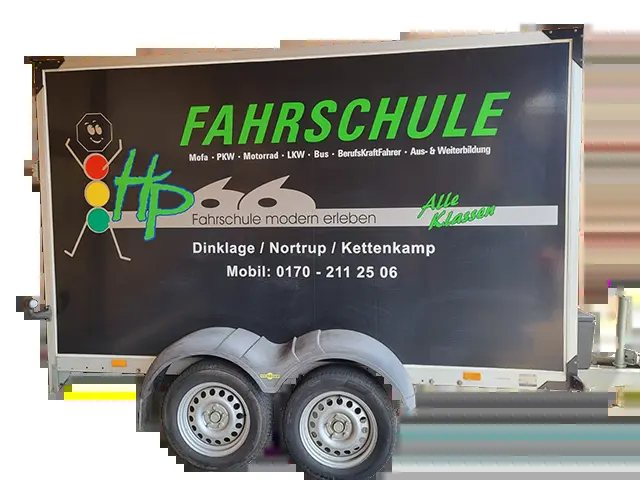
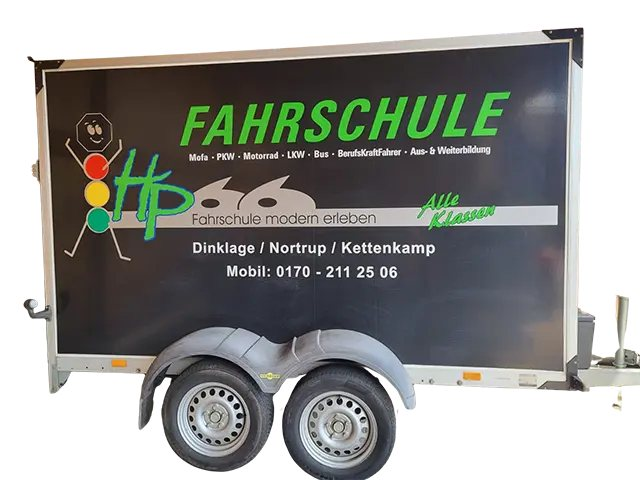
HP66 Bilder fix
Claude-Session: https://claude.ai/code/session_01BucTR9Q8kT7mhC8DGkv6nB

Changed region(s): [[0.0312, 0.0312, 1.0, 1.0], [0.0, 0.4688, 0.5, 1.0], [0.5625, 0.75, 0.5938, 0.7812]]

diff --git a/vorschau/fahrschule-hp66-nortrup-efd4/index.html b/vorschau/fahrschule-hp66-nortrup-efd4/index.html
@@ -1,17 +1,41 @@
 <!DOCTYPE html><html lang="de"><head><meta charset="utf-8"><meta name="viewport" content="width=device-width,initial-scale=1"><meta name="robots" content="noindex,nofollow"><title>Fahrschule HP 66 – Führerschein in Nortrup, Dinklage &amp; Gehrde</title><meta name="description" content="Fahrschule HP 66, Inh. Peter Hackmann: alle Klassen vom Mofa bis zum Bus, EU-Berufskraftfahrer. Standorte Nortrup, Dinklage und Gehrde."><style>@font-face {
-  font-family: 'Inter';
+  font-family: 'Montserrat';
   font-style: normal;
-  font-weight: 400 700;
+  font-weight: 400;
   font-display: swap;
-  src: url(../../assets/fonts/UcC73FwrK3iLTeHuS_nVMrMxCp50SjIa1ZL7.woff2) format('woff2');
+  src: url(../../assets/fonts/JTUSjIg1_i6t8kCHKm459Wlhyw.woff2) format('woff2');
   unicode-range: U+0000-00FF, U+0131, U+0152-0153, U+02BB-02BC, U+02C6, U+02DA, U+02DC, U+0304, U+0308, U+0329, U+2000-206F, U+20AC, U+2122, U+2191, U+2193, U+2212, U+2215, U+FEFF, U+FFFD;
 }
 @font-face {
-  font-family: 'Space Grotesk';
+  font-family: 'Montserrat';
   font-style: normal;
-  font-weight: 500 700;
+  font-weight: 500;
   font-display: swap;
-  src: url(../../assets/fonts/V8mDoQDjQSkFtoMM3T6r8E7mPbF4Cw.woff2) format('woff2');
+  src: url(../../assets/fonts/JTUSjIg1_i6t8kCHKm459Wlhyw.woff2) format('woff2');
+  unicode-range: U+0000-00FF, U+0131, U+0152-0153, U+02BB-02BC, U+02C6, U+02DA, U+02DC, U+0304, U+0308, U+0329, U+2000-206F, U+20AC, U+2122, U+2191, U+2193, U+2212, U+2215, U+FEFF, U+FFFD;
+}
+@font-face {
+  font-family: 'Montserrat';
+  font-style: normal;
+  font-weight: 600;
+  font-display: swap;
+  src: url(../../assets/fonts/JTUSjIg1_i6t8kCHKm459Wlhyw.woff2) format('woff2');
+  unicode-range: U+0000-00FF, U+0131, U+0152-0153, U+02BB-02BC, U+02C6, U+02DA, U+02DC, U+0304, U+0308, U+0329, U+2000-206F, U+20AC, U+2122, U+2191, U+2193, U+2212, U+2215, U+FEFF, U+FFFD;
+}
+@font-face {
+  font-family: 'Montserrat';
+  font-style: normal;
+  font-weight: 700;
+  font-display: swap;
+  src: url(../../assets/fonts/JTUSjIg1_i6t8kCHKm459Wlhyw.woff2) format('woff2');
+  unicode-range: U+0000-00FF, U+0131, U+0152-0153, U+02BB-02BC, U+02C6, U+02DA, U+02DC, U+0304, U+0308, U+0329, U+2000-206F, U+20AC, U+2122, U+2191, U+2193, U+2212, U+2215, U+FEFF, U+FFFD;
+}
+@font-face {
+  font-family: 'Montserrat';
+  font-style: normal;
+  font-weight: 800;
+  font-display: swap;
+  src: url(../../assets/fonts/JTUSjIg1_i6t8kCHKm459Wlhyw.woff2) format('woff2');
   unicode-range: U+0000-00FF, U+0131, U+0152-0153, U+02BB-02BC, U+02C6, U+02DA, U+02DC, U+0304, U+0308, U+0329, U+2000-206F, U+20AC, U+2122, U+2191, U+2193, U+2212, U+2215, U+FEFF, U+FFFD;
 }
 
@@ -565,11 +589,13 @@ body.has-tbar .hd{top:38px}body.has-tbar .hd.scr{top:0}
 @media (max-width:820px){.hlpa-ch{grid-template-columns:1fr}}
 .hlpa-f .chk.nl small{text-transform:none!important;letter-spacing:0!important;font:400 13px/1.45 system-ui,sans-serif!important;color:#55607a!important}
 
-:root{--bg:#f3f5f1;--ink:#121513;--mute:#555d58;--p:#8bd12a;--p-ink:#0d1406;--a:#8bd12a;--a-ink:#0d1406;--dk:#121513;--s:#fff;--s2:#e6ebe2;--fh:"Space Grotesk",system-ui,sans-serif;--fb:"Inter",system-ui,sans-serif;--r:16px;--r2:24px;--br:999px;--mq-bg:#121513;--mq-ink:#8bd12a;--hd-bg:rgba(18,21,19,.9);--hd-ink:#fff;--ft-bg:#0b0d0c;--hx-bg:#121513;--fl-bg:#fff}
+:root{--bg:#f4f5f2;--ink:#0e0e0e;--mute:#4f5450;--p:#b8ff25;--p-ink:#0e0e0e;--a:#b8ff25;--a-ink:#0e0e0e;--dk:#0e0e0e;--s:#fff;--s2:#e8ebe4;--fh:"Montserrat",system-ui,sans-serif;--fb:"Montserrat",system-ui,sans-serif;--r:16px;--r2:24px;--br:999px;--mq-bg:#121513;--mq-ink:#8bd12a;--hd-bg:rgba(14,14,14,.94);--hd-ink:#fff;--ft-bg:#0e0e0e;--hx-bg:#0e0e0e;--fl-bg:#fff}
 .hx{color:#fff}.hx .sub{color:rgba(255,255,255,.75)}.hx .btn-o{color:#fff}.hx h1{font-weight:700}.hx h1 em{color:var(--p)}.hx .pic{--hx-ar:16/11;--hx-r:28px}
 .hx::before{content:"";position:absolute;right:-10%;top:-20%;width:60%;height:140%;background:radial-gradient(closest-side,rgba(139,209,42,.22),transparent);z-index:1}
 .hx .chip{background:rgba(255,255,255,.1);border-color:rgba(255,255,255,.2);color:#fff}.h2{font-weight:700;letter-spacing:-.02em}.h2 em{font-style:normal;color:#5e9a10}.dk .h2 em{color:var(--p)}
-.hd .lt-logo{color:#fff}.fl .v figure{background:#fff}</style></head><body class=""><header class="hd lt" data-hd><div class="w"><a class="logo" href="#"><span class="lt-logo">HP<span style="color:var(--p)">66</span> <small style="font:600 13px var(--fb);opacity:.75">Fahrschule</small></span></a><nav class="nav"><a href="#fragen">Fragen</a><a href="#fahrzeuge">Fahrzeuge</a><a href="#orte">Standorte</a><a href="#ablauf">Ablauf</a><a href="#kontakt">Kontakt</a></nav><a class="btn btn-a" href="#kontakt">Jetzt anmelden</a><button class="burger" data-nav aria-label="Menü">☰</button></div></header><section class="hx" id="top"><div class="w"><div data-r><div class="chip"><b>5,0</b><span class="st">★★★★★</span>10 Google-Bewertungen</div><p class="ey">Fahrschule HP 66 · Nortrup · Dinklage · Gehrde</p><h1>Sicher in die Prüfung. <em>Ohne Umwege.</em></h1><p class="sub">Peter Hackmann und Claudia Hackmann-Paschert begleiten dich von der Anmeldung bis zur praktischen Prüfung. Zu fairen Preisen, mit entspannten Fahrlehrern und modernen BMW.</p><div class="ctas"><a class="btn btn-a" href="#kontakt">Jetzt anmelden <svg viewBox="0 0 24 24" fill="none" stroke="currentColor" stroke-width="2.2"><path d="M5 12h14M13 6l6 6-6 6"/></svg></a><a class="btn btn-o" href="tel:+491702112506"><svg viewBox="0 0 24 24" fill="currentColor"><path d="M6.6 10.8a15.1 15.1 0 006.6 6.6l2.2-2.2a1 1 0 011-.25 11.4 11.4 0 003.6.6 1 1 0 011 1V20a1 1 0 01-1 1A17 17 0 013 4a1 1 0 011-1h3.5a1 1 0 011 1c0 1.25.2 2.45.57 3.57a1 1 0 01-.25 1z"/></svg> 0170 2112506</a></div><div class="quick"><span>Was willst du fahren?</span><button type="button" data-check="auto"><svg viewBox="0 0 24 24" fill="none" stroke="currentColor" stroke-width="1.8"><path d="M3 15l1.6-5.2A2 2 0 016.5 8.4h11a2 2 0 011.9 1.4L21 15v3a1 1 0 01-1 1h-1.5a1 1 0 01-1-1v-1H6.5v1a1 1 0 01-1 1H4a1 1 0 01-1-1z"/><circle cx="7.5" cy="14.2" r="1.2"/><circle cx="16.5" cy="14.2" r="1.2"/></svg>Auto</button><button type="button" data-check="moto"><svg viewBox="0 0 24 24" fill="none" stroke="currentColor" stroke-width="1.8"><circle cx="5.5" cy="16.5" r="3"/><circle cx="18.5" cy="16.5" r="3"/><path d="M5.5 16.5l4-6h5l4 6M9.5 10.5L8 7.5h3M14.5 10.5l1.5-3h2.5"/></svg>Motorrad</button><button type="button" data-check="roller"><svg viewBox="0 0 24 24" fill="none" stroke="currentColor" stroke-width="1.8"><circle cx="6" cy="17" r="2.5"/><circle cx="18" cy="17" r="2.5"/><path d="M8.5 17h7M15 6h2l1.5 8.5M6 17l3-6h5"/></svg>Roller</button><button type="button" data-check="lkw"><svg viewBox="0 0 24 24" fill="none" stroke="currentColor" stroke-width="1.8"><path d="M2 6h12v10H2zM14 10h4l3 3v3h-7z"/><circle cx="6" cy="17.5" r="1.8"/><circle cx="17" cy="17.5" r="1.8"/></svg>Lkw / Bus</button><button type="button" data-check="trak"><svg viewBox="0 0 24 24" fill="none" stroke="currentColor" stroke-width="1.8"><circle cx="7" cy="16" r="4"/><circle cx="18" cy="17" r="2.5"/><path d="M7 12V6h6l2 6h3l2 3M11 6v6"/></svg>Traktor</button></div></div><div class="pic" data-r="2"><img src="img/h-car.jpg" alt="Fahrschule HP 66" style="object-position:50% 50%"><div class="gl g1"><b>5,0 ★</b>bei Google</div><div class="gl g2"><b>Alle Klassen</b>vom Mofa bis zum Bus</div></div></div></section><div class="mq hpm"><div class="t"><span>Klasse B &amp; BF17</span><span>BE · B96</span><span>A · A2 · A1 · AM</span><span>C · CE · C1</span><span>D · D1</span><span>Traktor T</span><span>EU-Berufskraftfahrer</span><span>Klasse B &amp; BF17</span><span>BE · B96</span><span>A · A2 · A1 · AM</span><span>C · CE · C1</span><span>D · D1</span><span>Traktor T</span><span>EU-Berufskraftfahrer</span></div></div><section class="sec so dk" id="fragen"><div class="w"><div data-r><div><p class="ey">Häufige Fragen</p><h2 class="h2">Das wollen <em>alle wissen.</em></h2></div></div><div class="grid"><div class="it" data-r><q>Wie lange dauert mein Führerschein?</q><p>Das hängt davon ab, wie oft du zur Theorie kommst und Zeit zum Fahren hast. Als Richtwert: <b>etwa 3 bis 6 Monate.</b></p></div><div class="it" data-r><q>Was passiert nach der Online-Anmeldung?</q><p>Wir melden uns bei dir und besprechen <b>persönlich</b>, wie deine Ausbildung bei uns läuft.</p></div><div class="it" data-r><q>Welche Autos habt ihr?</q><p>Vor allem die <b>BMW X1</b> und den <b>3er</b>, mit Schaltung und mit Automatik.</p></div><div class="it" data-r><q>Was brauche ich für den Antrag?</q><p>Antrag (bekommst du von uns), <b>biometrisches Passbild, Sehtest und Erste-Hilfe-Nachweis</b>. Bei Erweiterungen eine Kopie deines Führerscheins.</p></div></div></div></section><section class="sec fl " id="fahrzeuge"><div class="w top" data-r><div><p class="ey">Unsere Fahrzeuge</p><h2 class="h2">Moderne Marken, <em>sauber vorbereitet.</em></h2><p class=lead>Nicht nur die Fahrlehrer sind wichtig, auch die Fahrzeuge. Darum setzen wir auf moderne Markenhersteller.</p></div></div><div class="trk"><article class="v cut"><figure><img src="img/f-x1.jpg" alt="BMW X1" loading="lazy" style="object-position:50% 50%"></figure><div><h3>BMW X1</h3><span>Klasse B</span></div></article><article class="v cut"><figure><img src="img/f-3er.jpg" alt="BMW 3er Touring" loading="lazy" style="object-position:50% 50%"></figure><div><h3>BMW 3er Touring</h3><span>Klasse B · Schaltung &amp; Automatik</span></div></article><article class="v cut"><figure><img src="img/f-z.jpg" alt="Kawasaki" loading="lazy" style="object-position:50% 50%"></figure><div><h3>Kawasaki</h3><span>Klasse A / A2</span></div></article><article class="v cut"><figure><img src="img/f-z2.jpg" alt="Kawasaki" loading="lazy" style="object-position:50% 50%"></figure><div><h3>Kawasaki</h3><span>Klasse A1</span></div></article><article class="v cut"><figure><img src="img/f-roller.jpg" alt="Roller" loading="lazy" style="object-position:50% 50%"></figure><div><h3>Roller</h3><span>Klasse AM</span></div></article><article class="v cut"><figure><img src="img/f-anh.jpg" alt="Anhänger" loading="lazy" style="object-position:50% 50%"></figure><div><h3>Anhänger</h3><span>Klasse BE · B96</span></div></article></div></section><section class="sec or alt" id="orte"><div class="w"><div data-r><div><p class="ey">Standorte</p><h2 class="h2">Drei Orte, <em>drei Abende.</em></h2><p class=lead>Anmeldung und Unterricht jeweils ab 18:30 Uhr.</p></div></div><div class="grid"><div class="o" data-r><b>Nortrup</b><span>Kirchstraße 1</span><i>Donnerstags</i></div><div class="o" data-r><b>Dinklage</b><span>Burgstraße 7</span><i>Montags</i></div><div class="o" data-r><b>Gehrde</b><span>Lindenstraße 22</span><i>Dienstags</i></div></div></div></section><section class="sec rd " id="ablauf"><div class="w"><div data-r><div><p class="ey">Auf geht’s</p><h2 class="h2">Dein Weg <em>zum Führerschein.</em></h2></div></div><div class="road"><div data-r data-n="1"><h3>Online anmelden</h3><p>Klassen auswählen, abschicken. Bei Minderjährigen brauchen wir die Unterschrift der Eltern.</p></div><div data-r data-n="2"><h3>Persönlich starten</h3><p>Beim ersten Besuch bekommst du deinen Ausbildungsvertrag mit allen Infos.</p></div><div data-r data-n="3"><h3>Theorie &amp; Online lernen</h3><p>Unterricht in Nortrup, Dinklage oder Gehrde, dazu online lernen.</p></div><div data-r data-n="4"><h3>Fahren &amp; bestehen</h3><p>Fahrstunden im BMW, dann sicher in die Prüfung.</p></div></div></div></section><section class="sec rv dk" id="stimmen" style="overflow:hidden"><div class="w"><div class="sum" data-r><b>5,0</b><div><div class="st">★★★★★</div><span>10 Bewertungen bei Google</span></div></div><h2 class="h2" style="margin-top:20px">Was Fahrschüler <em>über uns sagen.</em></h2></div><div class="trk"><div class="cd"><div class="st">★★★★★</div><p>„Tolle Fahrschule, alles wurde perfekt erklärt, um die Prüfung zu bestehen. Es hat immer richtig Spaß gemacht. Danke euch beiden!“</p><small>Google-Rezension, sinngemäß</small></div><div class="cd"><div class="st">★★★★★</div><p>„Sehr freundlich, alles wird gut erklärt und es gibt hilfreiche Tipps. Ich kann den Führerschein hier nur empfehlen.“</p><small>Google-Rezension, sinngemäß</small></div><div class="cd"><div class="st">★★★★★</div><p>„Super Fahrschule, super Fahrlehrer. Hier bestehst du deine Prüfung.“</p><small>Google-Rezension, sinngemäß</small></div><div class="cd"><div class="st">★★★★★</div><p>„Klasse Fahrstunden. Die Nachtfahrt inklusive Stopp an der Dönerbude war ein Highlight!“</p><small>Google-Rezension, sinngemäß</small></div><div class="cd"><div class="st">★★★★★</div><p>„Tolle Fahrschule, alles wurde perfekt erklärt, um die Prüfung zu bestehen. Es hat immer richtig Spaß gemacht. Danke euch beiden!“</p><small>Google-Rezension, sinngemäß</small></div><div class="cd"><div class="st">★★★★★</div><p>„Sehr freundlich, alles wird gut erklärt und es gibt hilfreiche Tipps. Ich kann den Führerschein hier nur empfehlen.“</p><small>Google-Rezension, sinngemäß</small></div><div class="cd"><div class="st">★★★★★</div><p>„Super Fahrschule, super Fahrlehrer. Hier bestehst du deine Prüfung.“</p><small>Google-Rezension, sinngemäß</small></div><div class="cd"><div class="st">★★★★★</div><p>„Klasse Fahrstunden. Die Nachtfahrt inklusive Stopp an der Dönerbude war ein Highlight!“</p><small>Google-Rezension, sinngemäß</small></div></div><div class="w"><p class="note">Auszüge aus echten Google-Rezensionen, gekürzt und sinngemäß wiedergegeben.</p></div></section><section class="sec kt " id="kontakt"><div class="w"><div data-r><p class="ey">Kontakt</p><h2 class="h2">Dein schneller <em>Draht zu uns.</em></h2><p class="lead">Anrufen, WhatsApp oder Formular, wie es dir am liebsten ist.</p>
+.hd .lt-logo{color:#fff}.fl .v figure{background:#fff}
+.hx .pic{background:transparent!important;box-shadow:none!important;border-radius:0!important;overflow:visible}.hx .pic img{object-fit:contain;border-radius:0}
+section:not(.hx):not(.dk) .ey{color:#3f6b00}</style></head><body class=""><header class="hd lt" data-hd><div class="w"><a class="logo" href="#"><span class="lt-logo"><img src="img/logo.svg" alt="Fahrschule HP 66" style="height:46px;width:auto;display:block"></span></a><nav class="nav"><a href="#fragen">Fragen</a><a href="#fahrzeuge">Fahrzeuge</a><a href="#orte">Standorte</a><a href="#ablauf">Ablauf</a><a href="#kontakt">Kontakt</a></nav><a class="btn btn-a" href="#kontakt">Jetzt anmelden</a><button class="burger" data-nav aria-label="Menü">☰</button></div></header><section class="hx" id="top"><div class="w"><div data-r><div class="chip"><b>5,0</b><span class="st">★★★★★</span>10 Google-Bewertungen</div><p class="ey">Fahrschule HP 66 · Nortrup · Dinklage · Gehrde</p><h1>Sicher in die Prüfung. <em>Ohne Umwege.</em></h1><p class="sub">Peter Hackmann und Claudia Hackmann-Paschert begleiten dich von der Anmeldung bis zur praktischen Prüfung. Zu fairen Preisen, mit entspannten Fahrlehrern und modernen BMW.</p><div class="ctas"><a class="btn btn-a" href="#kontakt">Jetzt anmelden <svg viewBox="0 0 24 24" fill="none" stroke="currentColor" stroke-width="2.2"><path d="M5 12h14M13 6l6 6-6 6"/></svg></a><a class="btn btn-o" href="tel:+491702112506"><svg viewBox="0 0 24 24" fill="currentColor"><path d="M6.6 10.8a15.1 15.1 0 006.6 6.6l2.2-2.2a1 1 0 011-.25 11.4 11.4 0 003.6.6 1 1 0 011 1V20a1 1 0 01-1 1A17 17 0 013 4a1 1 0 011-1h3.5a1 1 0 011 1c0 1.25.2 2.45.57 3.57a1 1 0 01-.25 1z"/></svg> 0170 2112506</a></div><div class="quick"><span>Was willst du fahren?</span><button type="button" data-check="auto"><svg viewBox="0 0 24 24" fill="none" stroke="currentColor" stroke-width="1.8"><path d="M3 15l1.6-5.2A2 2 0 016.5 8.4h11a2 2 0 011.9 1.4L21 15v3a1 1 0 01-1 1h-1.5a1 1 0 01-1-1v-1H6.5v1a1 1 0 01-1 1H4a1 1 0 01-1-1z"/><circle cx="7.5" cy="14.2" r="1.2"/><circle cx="16.5" cy="14.2" r="1.2"/></svg>Auto</button><button type="button" data-check="moto"><svg viewBox="0 0 24 24" fill="none" stroke="currentColor" stroke-width="1.8"><circle cx="5.5" cy="16.5" r="3"/><circle cx="18.5" cy="16.5" r="3"/><path d="M5.5 16.5l4-6h5l4 6M9.5 10.5L8 7.5h3M14.5 10.5l1.5-3h2.5"/></svg>Motorrad</button><button type="button" data-check="roller"><svg viewBox="0 0 24 24" fill="none" stroke="currentColor" stroke-width="1.8"><circle cx="6" cy="17" r="2.5"/><circle cx="18" cy="17" r="2.5"/><path d="M8.5 17h7M15 6h2l1.5 8.5M6 17l3-6h5"/></svg>Roller</button><button type="button" data-check="lkw"><svg viewBox="0 0 24 24" fill="none" stroke="currentColor" stroke-width="1.8"><path d="M2 6h12v10H2zM14 10h4l3 3v3h-7z"/><circle cx="6" cy="17.5" r="1.8"/><circle cx="17" cy="17.5" r="1.8"/></svg>Lkw / Bus</button><button type="button" data-check="trak"><svg viewBox="0 0 24 24" fill="none" stroke="currentColor" stroke-width="1.8"><circle cx="7" cy="16" r="4"/><circle cx="18" cy="17" r="2.5"/><path d="M7 12V6h6l2 6h3l2 3M11 6v6"/></svg>Traktor</button></div></div><div class="pic" data-r="2"><img src="img/h-car.jpg" alt="Fahrschule HP 66" style="object-position:50% 50%"><div class="gl g1"><b>5,0 ★</b>bei Google</div><div class="gl g2"><b>Alle Klassen</b>vom Mofa bis zum Bus</div></div></div></section><div class="mq hpm"><div class="t"><span>Klasse B &amp; BF17</span><span>BE · B96</span><span>A · A2 · A1 · AM</span><span>C · CE · C1</span><span>D · D1</span><span>Traktor T</span><span>EU-Berufskraftfahrer</span><span>Klasse B &amp; BF17</span><span>BE · B96</span><span>A · A2 · A1 · AM</span><span>C · CE · C1</span><span>D · D1</span><span>Traktor T</span><span>EU-Berufskraftfahrer</span></div></div><section class="sec so dk" id="fragen"><div class="w"><div data-r><div><p class="ey">Häufige Fragen</p><h2 class="h2">Das wollen <em>alle wissen.</em></h2></div></div><div class="grid"><div class="it" data-r><q>Wie lange dauert mein Führerschein?</q><p>Das hängt davon ab, wie oft du zur Theorie kommst und Zeit zum Fahren hast. Als Richtwert: <b>etwa 3 bis 6 Monate.</b></p></div><div class="it" data-r><q>Was passiert nach der Online-Anmeldung?</q><p>Wir melden uns bei dir und besprechen <b>persönlich</b>, wie deine Ausbildung bei uns läuft.</p></div><div class="it" data-r><q>Welche Autos habt ihr?</q><p>Vor allem die <b>BMW X1</b> und den <b>3er</b>, mit Schaltung und mit Automatik.</p></div><div class="it" data-r><q>Was brauche ich für den Antrag?</q><p>Antrag (bekommst du von uns), <b>biometrisches Passbild, Sehtest und Erste-Hilfe-Nachweis</b>. Bei Erweiterungen eine Kopie deines Führerscheins.</p></div></div></div></section><section class="sec fl " id="fahrzeuge"><div class="w top" data-r><div><p class="ey">Unsere Fahrzeuge</p><h2 class="h2">Moderne Marken, <em>sauber vorbereitet.</em></h2><p class=lead>Nicht nur die Fahrlehrer sind wichtig, auch die Fahrzeuge. Darum setzen wir auf moderne Markenhersteller.</p></div></div><div class="trk"><article class="v cut"><figure><img src="img/f-x1.jpg" alt="BMW X1" loading="lazy" style="object-position:50% 50%"></figure><div><h3>BMW X1</h3><span>Klasse B</span></div></article><article class="v cut"><figure><img src="img/f-3er.jpg" alt="BMW 3er Touring" loading="lazy" style="object-position:50% 50%"></figure><div><h3>BMW 3er Touring</h3><span>Klasse B · Schaltung &amp; Automatik</span></div></article><article class="v cut"><figure><img src="img/f-z.jpg" alt="Kawasaki" loading="lazy" style="object-position:50% 50%"></figure><div><h3>Kawasaki</h3><span>Klasse A / A2</span></div></article><article class="v cut"><figure><img src="img/f-z2.jpg" alt="Kawasaki" loading="lazy" style="object-position:50% 50%"></figure><div><h3>Kawasaki</h3><span>Klasse A1</span></div></article><article class="v cut"><figure><img src="img/f-roller.jpg" alt="Roller" loading="lazy" style="object-position:50% 50%"></figure><div><h3>Roller</h3><span>Klasse AM</span></div></article><article class="v cut"><figure><img src="img/f-anh.jpg" alt="Anhänger" loading="lazy" style="object-position:50% 50%"></figure><div><h3>Anhänger</h3><span>Klasse BE · B96</span></div></article></div></section><section class="sec or alt" id="orte"><div class="w"><div data-r><div><p class="ey">Standorte</p><h2 class="h2">Drei Orte, <em>drei Abende.</em></h2><p class=lead>Anmeldung und Unterricht jeweils ab 18:30 Uhr.</p></div></div><div class="grid"><div class="o" data-r><b>Nortrup</b><span>Kirchstraße 1</span><i>Donnerstags</i></div><div class="o" data-r><b>Dinklage</b><span>Burgstraße 7</span><i>Montags</i></div><div class="o" data-r><b>Gehrde</b><span>Lindenstraße 22</span><i>Dienstags</i></div></div></div></section><section class="sec rd " id="ablauf"><div class="w"><div data-r><div><p class="ey">Auf geht’s</p><h2 class="h2">Dein Weg <em>zum Führerschein.</em></h2></div></div><div class="road"><div data-r data-n="1"><h3>Online anmelden</h3><p>Klassen auswählen, abschicken. Bei Minderjährigen brauchen wir die Unterschrift der Eltern.</p></div><div data-r data-n="2"><h3>Persönlich starten</h3><p>Beim ersten Besuch bekommst du deinen Ausbildungsvertrag mit allen Infos.</p></div><div data-r data-n="3"><h3>Theorie &amp; Online lernen</h3><p>Unterricht in Nortrup, Dinklage oder Gehrde, dazu online lernen.</p></div><div data-r data-n="4"><h3>Fahren &amp; bestehen</h3><p>Fahrstunden im BMW, dann sicher in die Prüfung.</p></div></div></div></section><section class="sec rv dk" id="stimmen" style="overflow:hidden"><div class="w"><div class="sum" data-r><b>5,0</b><div><div class="st">★★★★★</div><span>10 Bewertungen bei Google</span></div></div><h2 class="h2" style="margin-top:20px">Was Fahrschüler <em>über uns sagen.</em></h2></div><div class="trk"><div class="cd"><div class="st">★★★★★</div><p>„Tolle Fahrschule, alles wurde perfekt erklärt, um die Prüfung zu bestehen. Es hat immer richtig Spaß gemacht. Danke euch beiden!“</p><small>Google-Rezension, sinngemäß</small></div><div class="cd"><div class="st">★★★★★</div><p>„Sehr freundlich, alles wird gut erklärt und es gibt hilfreiche Tipps. Ich kann den Führerschein hier nur empfehlen.“</p><small>Google-Rezension, sinngemäß</small></div><div class="cd"><div class="st">★★★★★</div><p>„Super Fahrschule, super Fahrlehrer. Hier bestehst du deine Prüfung.“</p><small>Google-Rezension, sinngemäß</small></div><div class="cd"><div class="st">★★★★★</div><p>„Klasse Fahrstunden. Die Nachtfahrt inklusive Stopp an der Dönerbude war ein Highlight!“</p><small>Google-Rezension, sinngemäß</small></div><div class="cd"><div class="st">★★★★★</div><p>„Tolle Fahrschule, alles wurde perfekt erklärt, um die Prüfung zu bestehen. Es hat immer richtig Spaß gemacht. Danke euch beiden!“</p><small>Google-Rezension, sinngemäß</small></div><div class="cd"><div class="st">★★★★★</div><p>„Sehr freundlich, alles wird gut erklärt und es gibt hilfreiche Tipps. Ich kann den Führerschein hier nur empfehlen.“</p><small>Google-Rezension, sinngemäß</small></div><div class="cd"><div class="st">★★★★★</div><p>„Super Fahrschule, super Fahrlehrer. Hier bestehst du deine Prüfung.“</p><small>Google-Rezension, sinngemäß</small></div><div class="cd"><div class="st">★★★★★</div><p>„Klasse Fahrstunden. Die Nachtfahrt inklusive Stopp an der Dönerbude war ein Highlight!“</p><small>Google-Rezension, sinngemäß</small></div></div><div class="w"><p class="note">Auszüge aus echten Google-Rezensionen, gekürzt und sinngemäß wiedergegeben.</p></div></section><section class="sec kt " id="kontakt"><div class="w"><div data-r><p class="ey">Kontakt</p><h2 class="h2">Dein schneller <em>Draht zu uns.</em></h2><p class="lead">Anrufen, WhatsApp oder Formular, wie es dir am liebsten ist.</p>
 <div class="info"><div><i>☎</i><div><b><a href="tel:+491702112506">0170 2112506</a></b>fahrschule-hp-66@t-online.de</div></div><div><i>⌖</i><div><b>Fahrschule HP 66</b>Kirchstraße 1, 49638 Nortrup</div></div><div><i>◷</i><div><b>Öffnungszeiten</b><div class="hrs"><span>Mo · Dinklage</span><span>ab 18:30</span><span>Di · Gehrde</span><span>ab 18:30</span><span>Do · Nortrup</span><span>ab 18:30</span></div></div></div></div>
 <div class="map"><img src="img/karte.webp" alt="Karte: Kirchstraße 1, 49638 Nortrup" loading="lazy"><a href="https://www.openstreetmap.org/search?query=Kirchstraße 1, 49638 Nortrup" target="_blank" rel="noopener">Route planen →</a></div></div>
 <div class="bx" data-r="2"><h3 style="font-size:28px">Auf die Plätze, fertig, los</h3><p style="color:var(--mute);margin:8px 0 22px">Melde dich an, wir rufen dich an und besprechen den Start.</p><form class="fm"><div class="two"><label>Name<input required autocomplete="name" placeholder="Dein Name"></label><label>Telefon<input required type="tel" autocomplete="tel" placeholder="Deine Telefonnummer"></label></div><label>Führerschein<select><option>Auto · B / BF17</option><option>Anhänger · BE / B96</option><option>Motorrad · A / A2 / A1</option><option>Roller · AM / Mofa</option><option>Lkw · C / CE / C1</option><option>Bus · D / D1</option><option>Traktor · T</option><option>EU-Berufskraftfahrer</option></select></label><label>Standort<select><option>Nortrup</option><option>Dinklage</option><option>Gehrde</option></select></label><label>Nachricht<textarea placeholder="Deine Nachricht (optional)"></textarea></label><button class="btn btn-a">Anmeldung abschicken <svg viewBox="0 0 24 24" fill="none" stroke="currentColor" stroke-width="2.2"><path d="M5 12h14M13 6l6 6-6 6"/></svg></button><small>Grober Entwurf: Das Formular verschickt noch nichts.</small><div class="ok">Danke! Wir melden uns schnellstmöglich bei dir.</div></form></div></div></section><section class="hlpa" id="hlp-anfrage"><div class="hlpa-w"><div class="hlpa-t"><small>Nachricht von High Level Performance</small><h2>Gefällt Ihnen Ihr neuer Auftritt?</h2><p>Tragen Sie hier kurz Ihre Daten ein. Sie müssen sich um nichts weiter kümmern: Wir melden uns innerhalb von 24 Stunden telefonisch bei Ihnen, zu der Uhrzeit, die Ihnen passt.</p><p class="hlpa-s">Kostenlos und unverbindlich. Im Gespräch zeigen wir Ihnen, wie aus diesem Entwurf Ihre fertige Website wird.</p></div>
@@ -581,7 +607,7 @@ body.has-tbar .hd{top:38px}body.has-tbar .hd.scr{top:0}
 <label class="w2">Ihre größte Herausforderung (freiwillig)<textarea name="wunsch" rows="2" placeholder="Ein, zwei Sätze reichen, z. B. viele Besucher, aber kaum Anmeldungen"></textarea></label>
 <label class="chk nl w2"><input type="checkbox" name="newsletter" value="ja"><span><b>Newsletter abonnieren und 15 % auf Ihre nächste Leistung sparen</b><small>Bleiben Sie auf dem Laufenden: Wir schauen uns an, was im Markt gerade funktioniert, und schicken Ihnen regelmäßig die wichtigsten Neuigkeiten rund um Websites, Google und mehr Anfragen. Abmeldung jederzeit mit einem Klick.</small></span></label>
 <label class="chk w2"><input type="checkbox" name="ds" required><span>Ich bin einverstanden, dass meine Angaben zur Bearbeitung meiner Anfrage gespeichert werden (<a href="https://www.highlevel-performance.de/datenschutz/" target="_blank" rel="noopener">Datenschutz</a>).</span></label>
-<button class="w2" type="submit">Kostenlosen Rückruf anfordern</button><p class="msg w2" hidden></p></form></div></section><footer class="ft"><div class="w"><div><span class="lt-logo">HP<span style="color:var(--p)">66</span> <small style="font:600 13px var(--fb);opacity:.75">Fahrschule</small></span><p>Fahrschule HP 66<br>Kirchstraße 1, 49638 Nortrup<br><a href="tel:+491702112506">0170 2112506</a></p></div><div><b>Seite</b><a href="#fragen">Fragen</a><a href="#fahrzeuge">Fahrzeuge</a><a href="#orte">Standorte</a><a href="#ablauf">Ablauf</a><a href="#kontakt">Kontakt</a></div><div><b>Folgen</b><a href="https://www.instagram.com/fahrschulehp66/" target="_blank" rel="noopener">Instagram</a><a href="https://www.facebook.com/FahrschuleHP66/" target="_blank" rel="noopener">Facebook</a><a href="https://wa.me/491702112506" target="_blank" rel="noopener">WhatsApp</a></div><div class="cp">Grober Entwurf von High Level Performance mit Bildern und Texten von fahrschule-hp-66.de. Bei einer Zusammenarbeit wird alles viel intensiver ausgearbeitet.</div></div></footer><div class="hlp-note"><b>Grober Entwurf</b> · Erstellt von High Level Performance. Bei einer Zusammenarbeit arbeiten wir jede Seite viel intensiver aus. <a href="#hlp-anfrage">Entwurf gefällt mir →</a><button aria-label="Hinweis schließen">×</button></div><div class="mcall"><a href="tel:+491702112506"><svg viewBox="0 0 24 24" fill="currentColor"><path d="M6.6 10.8a15.1 15.1 0 006.6 6.6l2.2-2.2a1 1 0 011-.25 11.4 11.4 0 003.6.6 1 1 0 011 1V20a1 1 0 01-1 1A17 17 0 013 4a1 1 0 011-1h3.5a1 1 0 011 1c0 1.25.2 2.45.57 3.57a1 1 0 01-.25 1z"/></svg>Anrufen</a><a href="#kontakt">Jetzt anmelden</a></div><script>window.BOT={"name": "Paul", "tag": "dein HP-66-Lotse", "hello": "Hey! Ich bin <b>Paul</b> von der Fahrschule HP 66. In 30 Sekunden finden wir raus, welcher Führerschein zu dir passt.", "hi": "Hey, ich bin Paul! Drei kurze Fragen, dann weißt du, welche Klasse du brauchst, und deine Anmeldung ist schon vorausgefüllt.", "du": true, "cls": ["B", "BE", "B96", "A", "A2", "A1", "AM", "Mofa", "C", "CE", "D", "T", "L"], "usp": {"schnell": "Als Richtwert brauchst du 3 bis 6 Monate. Je öfter du zur Theorie kommst, desto schneller geht’s.", "ruhe": "Unsere Fahrschüler loben vor allem eins: entspannte Fahrlehrer, alles wird gut erklärt.", "flex": "Unterricht gibt es montags in Dinklage, dienstags in Gehrde, donnerstags in Nortrup.", "angst": "Bei uns geht es entspannt zu. Und es gibt die BMW auch mit Automatik."}, "qa": [["auto|bmw|automatik", "Wir fahren BMW X1 und 3er, mit Schaltung und mit Automatik."], ["dauer|lange", "Als Richtwert 3 bis 6 Monate, je nachdem, wie oft du Zeit für Theorie und Fahrstunden hast."], ["antrag|unterlagen|passbild", "Für den Antrag brauchst du ein biometrisches Passbild, Sehtest und Erste-Hilfe-Nachweis. Den Antrag selbst bekommst du von uns."]], "tour": [["#fragen", "Die häufigsten Fragen, direkt beantwortet."], ["#fahrzeuge", "Unsere Fahrzeuge."], ["#orte", "Drei Standorte, drei Abende."], ["#kontakt", "Und hier geht’s zur Anmeldung."]], "tel": "0170 2112506", "tel_i": "+491702112506", "ex": null, "finBtn": null};window.HLP_E={"firma": "Fahrschule HP 66", "runde": "Runde 14"}</script><script>(function(){
+<button class="w2" type="submit">Kostenlosen Rückruf anfordern</button><p class="msg w2" hidden></p></form></div></section><footer class="ft"><div class="w"><div><span class="lt-logo"><img src="img/logo.svg" alt="Fahrschule HP 66" style="height:46px;width:auto;display:block"></span><p>Fahrschule HP 66<br>Kirchstraße 1, 49638 Nortrup<br><a href="tel:+491702112506">0170 2112506</a></p></div><div><b>Seite</b><a href="#fragen">Fragen</a><a href="#fahrzeuge">Fahrzeuge</a><a href="#orte">Standorte</a><a href="#ablauf">Ablauf</a><a href="#kontakt">Kontakt</a></div><div><b>Folgen</b><a href="https://www.instagram.com/fahrschulehp66/" target="_blank" rel="noopener">Instagram</a><a href="https://www.facebook.com/FahrschuleHP66/" target="_blank" rel="noopener">Facebook</a><a href="https://wa.me/491702112506" target="_blank" rel="noopener">WhatsApp</a></div><div class="cp">Grober Entwurf von High Level Performance mit Bildern und Texten von fahrschule-hp-66.de. Bei einer Zusammenarbeit wird alles viel intensiver ausgearbeitet.</div></div></footer><div class="hlp-note"><b>Grober Entwurf</b> · Erstellt von High Level Performance. Bei einer Zusammenarbeit arbeiten wir jede Seite viel intensiver aus. <a href="#hlp-anfrage">Entwurf gefällt mir →</a><button aria-label="Hinweis schließen">×</button></div><div class="mcall"><a href="tel:+491702112506"><svg viewBox="0 0 24 24" fill="currentColor"><path d="M6.6 10.8a15.1 15.1 0 006.6 6.6l2.2-2.2a1 1 0 011-.25 11.4 11.4 0 003.6.6 1 1 0 011 1V20a1 1 0 01-1 1A17 17 0 013 4a1 1 0 011-1h3.5a1 1 0 011 1c0 1.25.2 2.45.57 3.57a1 1 0 01-.25 1z"/></svg>Anrufen</a><a href="#kontakt">Jetzt anmelden</a></div><script>window.BOT={"name": "Paul", "tag": "dein HP-66-Lotse", "hello": "Hey! Ich bin <b>Paul</b> von der Fahrschule HP 66. In 30 Sekunden finden wir raus, welcher Führerschein zu dir passt.", "hi": "Hey, ich bin Paul! Drei kurze Fragen, dann weißt du, welche Klasse du brauchst, und deine Anmeldung ist schon vorausgefüllt.", "du": true, "cls": ["B", "BE", "B96", "A", "A2", "A1", "AM", "Mofa", "C", "CE", "D", "T", "L"], "usp": {"schnell": "Als Richtwert brauchst du 3 bis 6 Monate. Je öfter du zur Theorie kommst, desto schneller geht’s.", "ruhe": "Unsere Fahrschüler loben vor allem eins: entspannte Fahrlehrer, alles wird gut erklärt.", "flex": "Unterricht gibt es montags in Dinklage, dienstags in Gehrde, donnerstags in Nortrup.", "angst": "Bei uns geht es entspannt zu. Und es gibt die BMW auch mit Automatik."}, "qa": [["auto|bmw|automatik", "Wir fahren BMW X1 und 3er, mit Schaltung und mit Automatik."], ["dauer|lange", "Als Richtwert 3 bis 6 Monate, je nachdem, wie oft du Zeit für Theorie und Fahrstunden hast."], ["antrag|unterlagen|passbild", "Für den Antrag brauchst du ein biometrisches Passbild, Sehtest und Erste-Hilfe-Nachweis. Den Antrag selbst bekommst du von uns."]], "tour": [["#fragen", "Die häufigsten Fragen, direkt beantwortet."], ["#fahrzeuge", "Unsere Fahrzeuge."], ["#orte", "Drei Standorte, drei Abende."], ["#kontakt", "Und hier geht’s zur Anmeldung."]], "tel": "0170 2112506", "tel_i": "+491702112506", "ex": null, "finBtn": null};window.HLP_E={"firma": "Fahrschule HP 66", "runde": "Runde 14"}</script><script>(function(){
  // Einblenden beim Scrollen
  var io=('IntersectionObserver' in window)?new IntersectionObserver(function(es){es.forEach(function(e){if(e.isIntersecting){e.target.classList.add('in');io.unobserve(e.target)}})},{threshold:.12,rootMargin:'0px 0px -6% 0px'}):null;
  document.querySelectorAll('[data-r]').forEach(function(el){io?io.observe(el):el.classList.add('in')});
